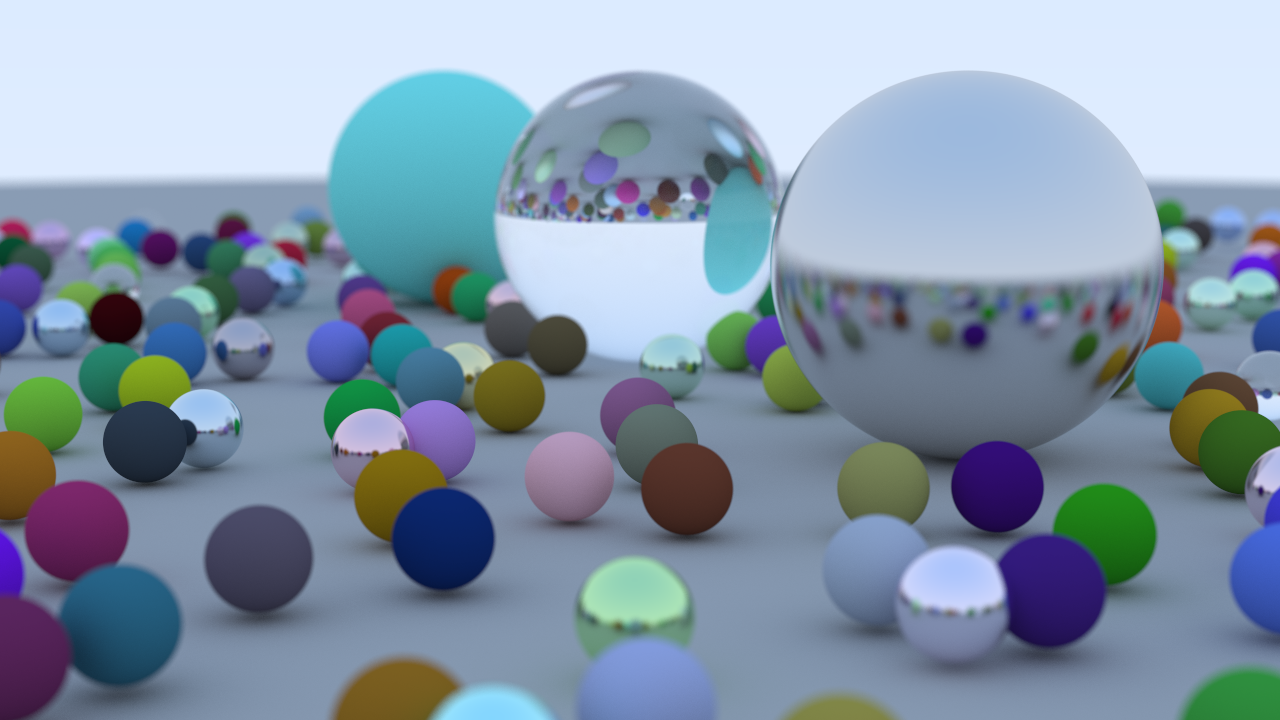
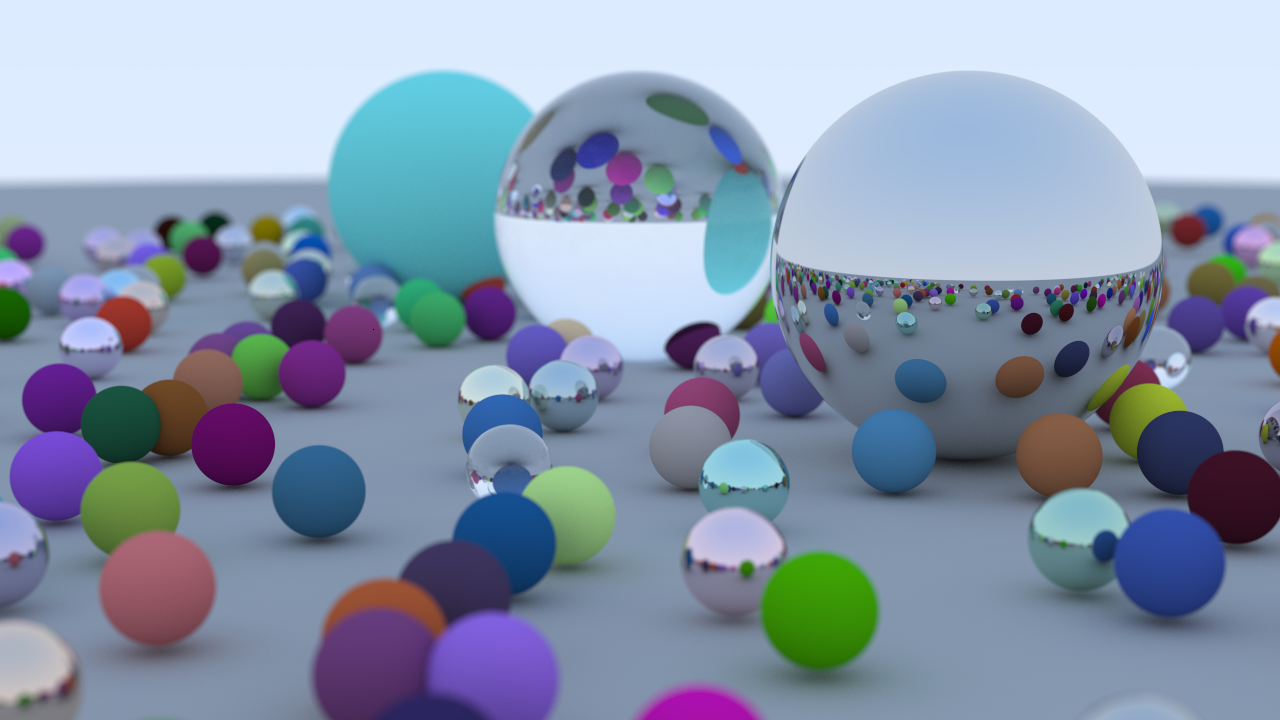
Fix metal material

diff --git a/src/material.rs b/src/material.rs
@@ -37,7 +37,7 @@ impl Metal {
     pub fn new(albedo: Color, fuzz: f32) -> Self {
         Self {
             albedo,
-            fuzz: fuzz.max(1.0),
+            fuzz: fuzz.min(1.0),
         }
     }
 }
